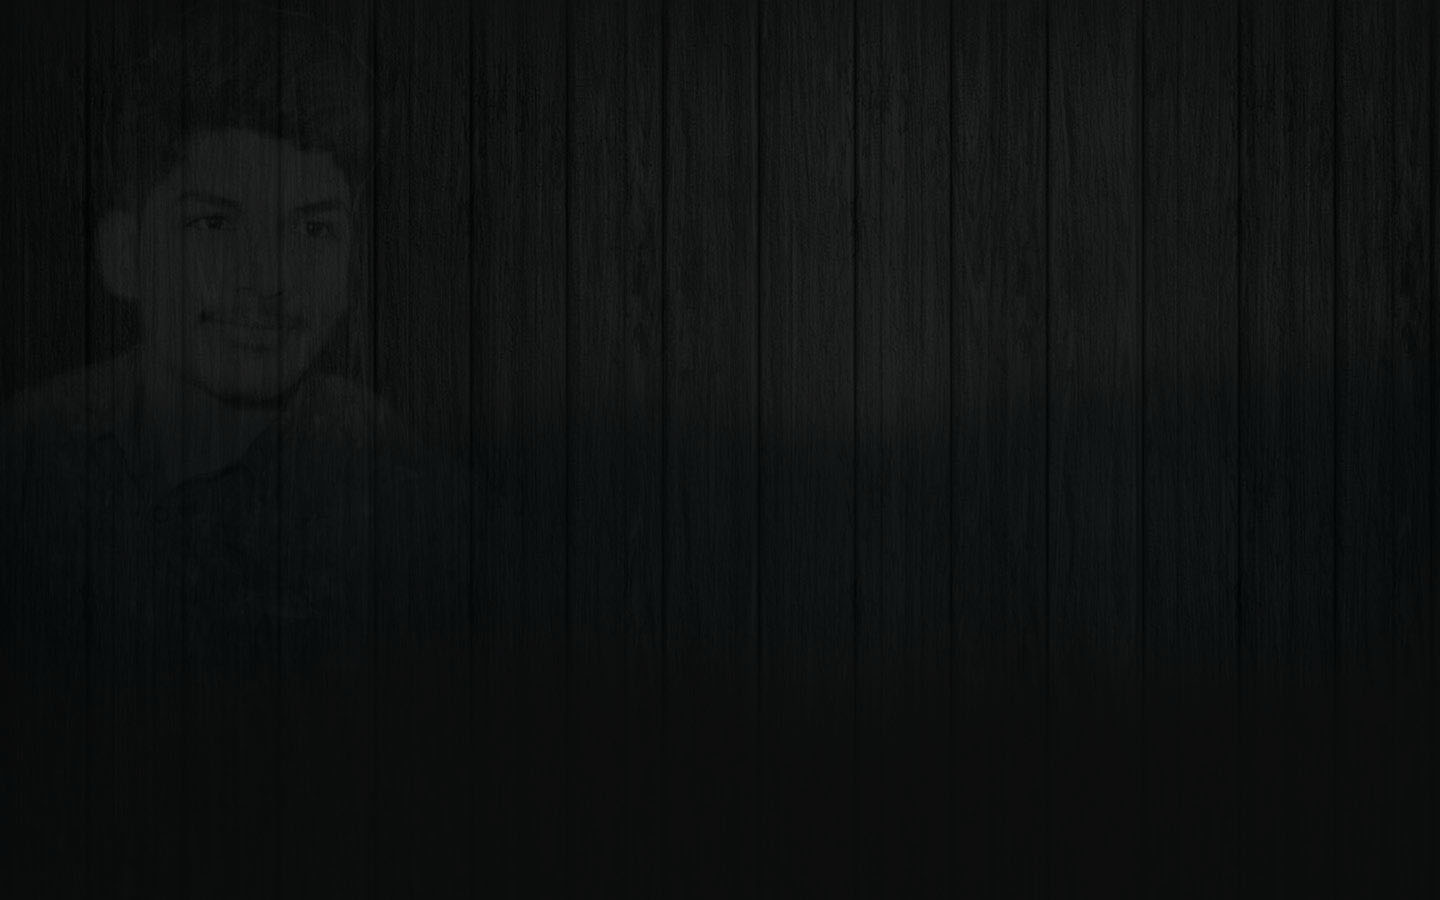
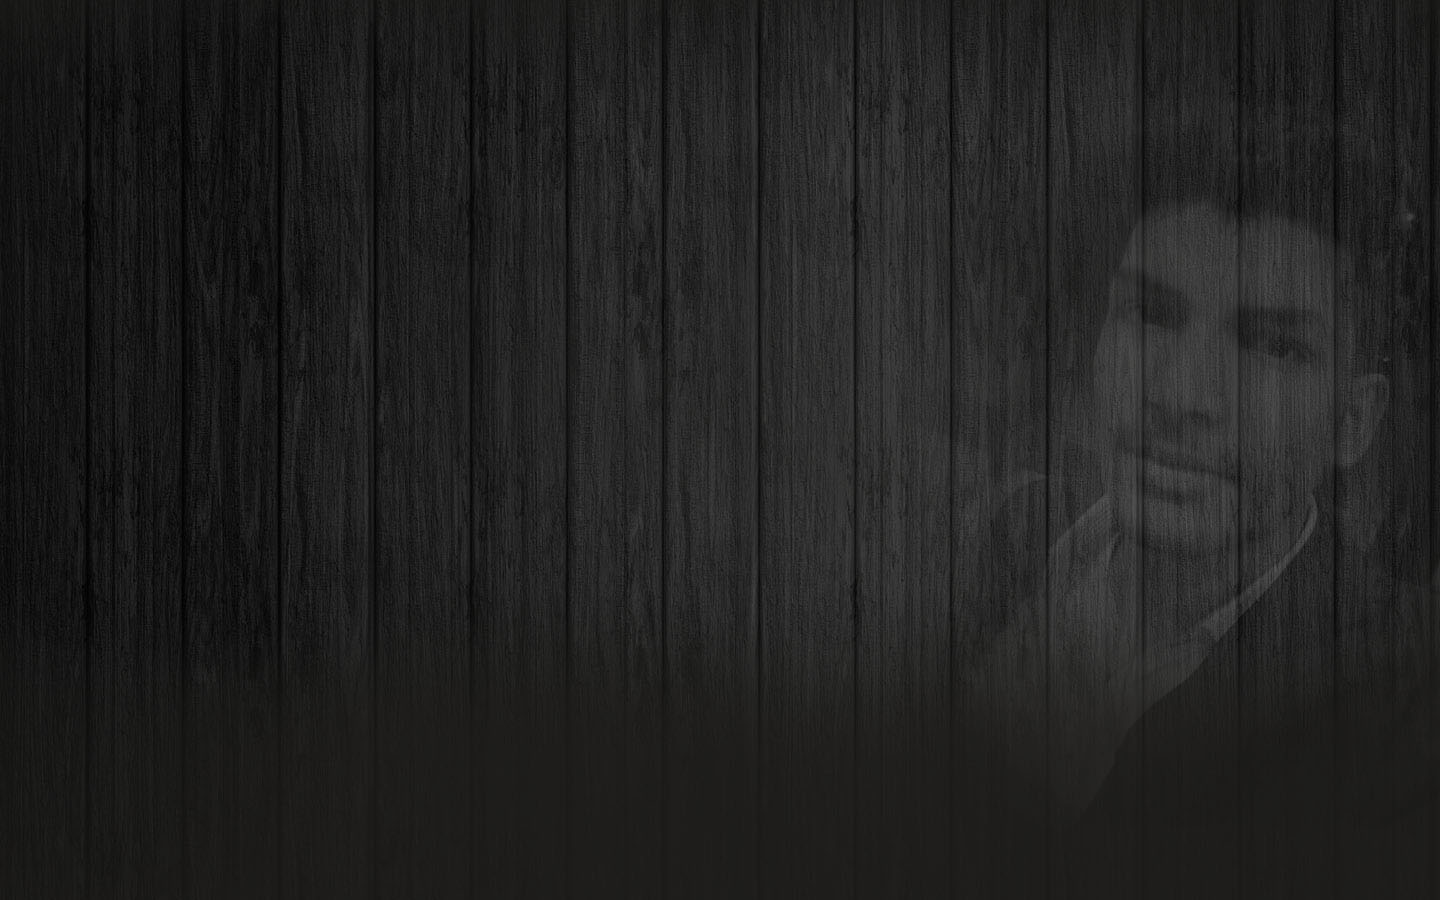
profile pic changed

diff --git a/about.html b/about.html
@@ -68,7 +68,7 @@
 							<a href="https://github.com/itssahmadhassan" target="_blank">github</a> account.
 							I'm available for freelance work.
 							You can contact me at <span style="font-size:75%;">itssahmadhassan@gmail.com</span><br>
-							or mobile number <span>03114006992</span>.
+							or mobile number <span>+923474523358</span>.
 							</p>
 						</header>
 						<footer>
